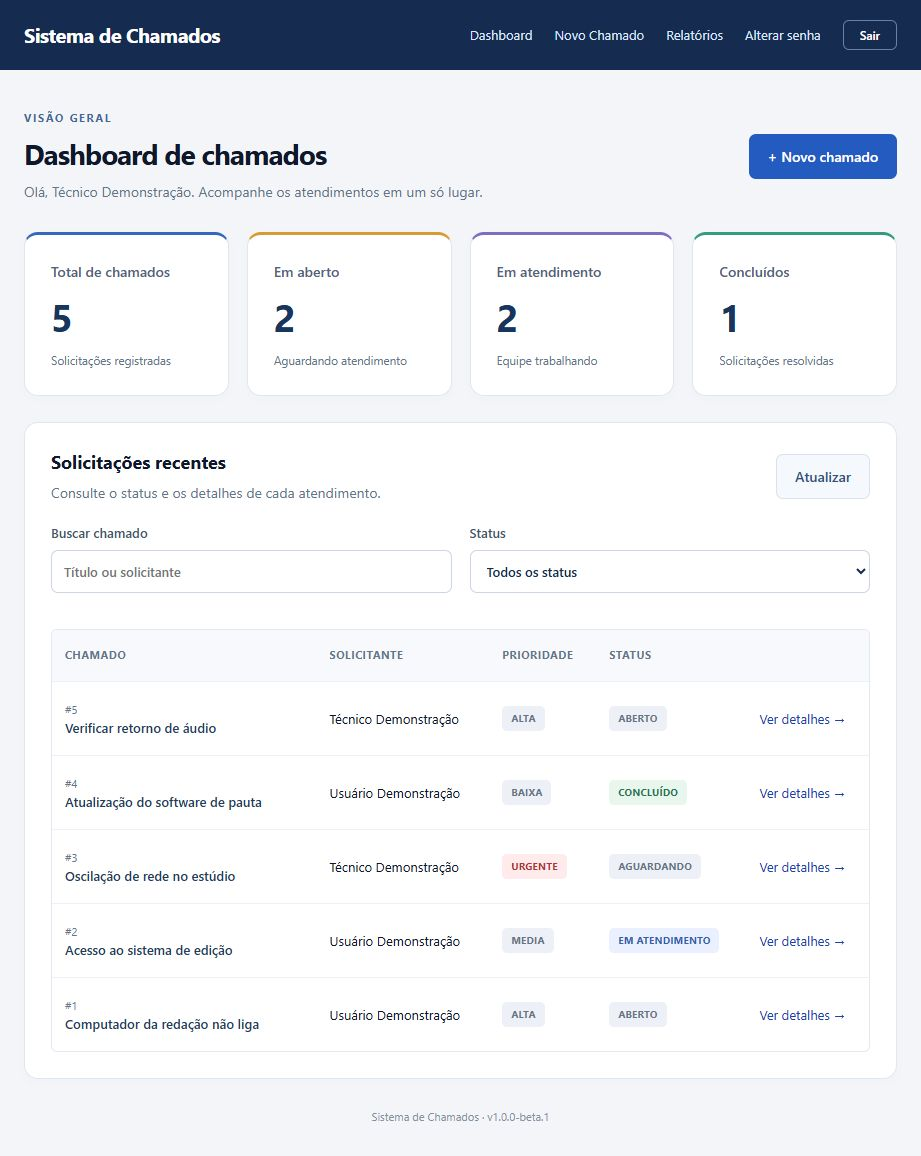
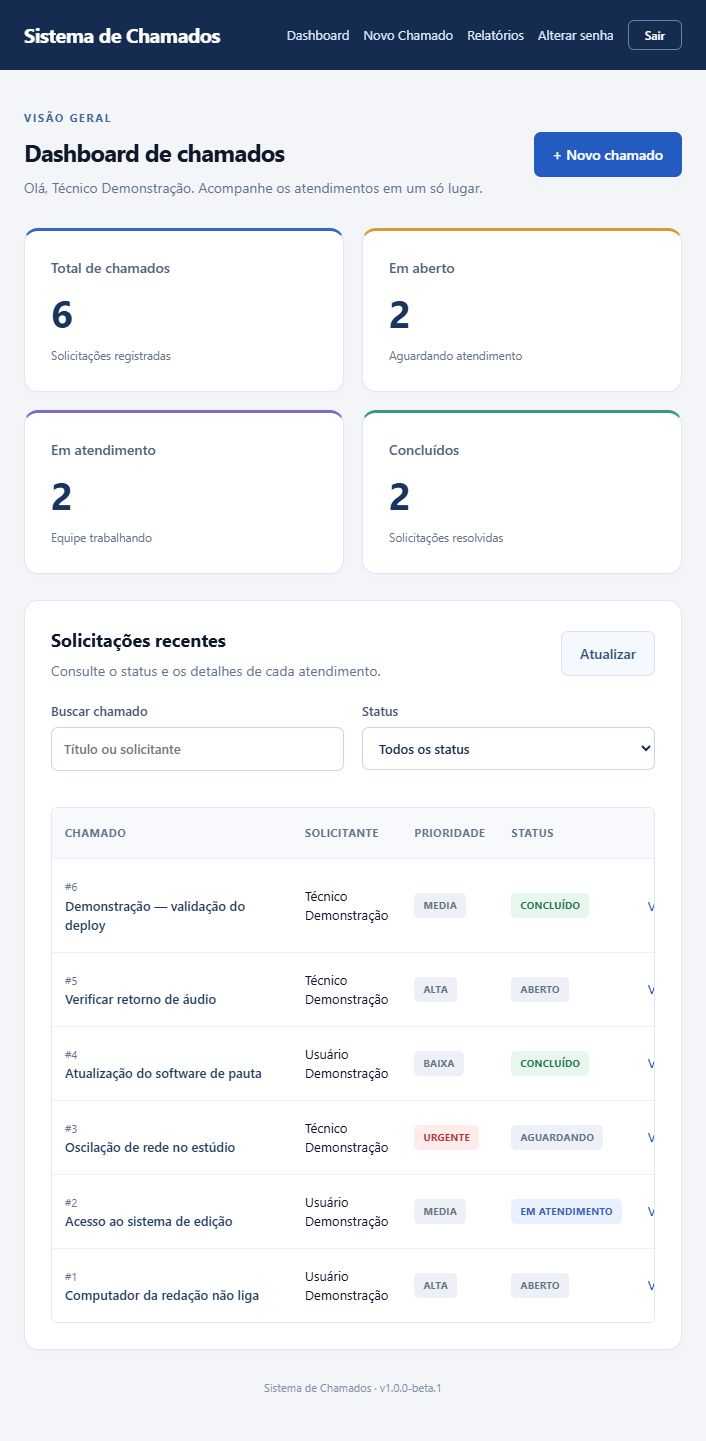
docs: record Render deployment and public access

diff --git a/README.md b/README.md
@@ -2,19 +2,19 @@
 
 Aplicação de controle de chamados técnicos, inspirada no fluxo de um helpdesk corporativo. Permite cadastrar usuários, entrar no sistema, abrir solicitações e acompanhar o atendimento até a conclusão.
 
-**Versão:** `1.0.0-beta.1` · **Status:** validada localmente; deploy público pendente.
+**Versão:** `1.0.0-beta.1` · **Status:** publicada no Render, com PostgreSQL persistente no Neon.
 
 ## Links da entrega
 
-- **Repositório configurado neste projeto:** [FelipeSeiji/Sistema-de-Chamados](https://github.com/FelipeSeiji/Sistema-de-Chamados).
-- **Aplicação publicada:** pendente. A publicação no Railway exige uma conta com plano ativo. Ainda não existe uma URL pública desta versão.
+- **Repositório individual:** [FelipeSeiji/Sistema-de-Chamados](https://github.com/FelipeSeiji/Sistema-de-Chamados).
+- **Aplicação publicada:** [Sistema de Chamados no Render](https://sistema-de-chamados-pw2c.onrender.com).
 - **Código da atividade:** o ZIP deve ser gerado com `scripts/package-source.ps1`, que inclui os arquivos de código e o print deste README.
 
-Antes de entregar, publique esta versão em um repositório individual da sua conta e ajuste o link acima se necessário. As alterações preparadas localmente precisam ser enviadas ao GitHub para que o avaliador tenha acesso a elas.
+O repositório está privado. Antes de entregar o link, conceda acesso ao avaliador ou altere a visibilidade do repositório. O acesso à aplicação publicada é público e permite login com as credenciais abaixo ou cadastro de uma nova conta.
 
 ## Dashboard
 
-Print real da aplicação em execução local, autenticada como técnico, usando dados fictícios. A tela é implementada em `sistema_chamado/frontend/src/app/pages/dashboard/`; a imagem também acompanha o ZIP do código.
+Print real da aplicação publicada no Render, autenticada como técnico, usando dados fictícios. A tela é implementada em `sistema_chamado/frontend/src/app/pages/dashboard/`; a imagem também acompanha o ZIP do código.
 
 ![Dashboard da aplicação de controle de chamados](docs/images/dashboard.jpg)
 
@@ -29,9 +29,9 @@ O projeto utiliza o formato `MAJOR.MINOR.PATCH[-PRÉ-LANÇAMENTO]`:
 | PATCH | Correções compatíveis, sem novas funcionalidades | `1.0.0` → `1.0.1` |
 | Pré-lançamento | Identifica uma versão em validação antes da versão estável | `1.0.0-beta.1` → `1.0.0-beta.2` |
 
-Em **`1.0.0-beta.1`**, `1` identifica a primeira linha principal do sistema, os dois zeros indicam sua versão inicial e `beta.1` identifica a primeira versão de avaliação. O sufixo permanece porque o deploy público ainda não foi validado. Backend (`pom.xml`), frontend (`package.json` e lockfile), dashboard e endpoint de saúde usam a mesma versão.
+Em **`1.0.0-beta.1`**, `1` identifica a primeira linha principal do sistema, os dois zeros indicam sua versão inicial e `beta.1` identifica a primeira versão de avaliação acadêmica. Backend (`pom.xml`), frontend (`package.json` e lockfile), dashboard e endpoint de saúde usam a mesma versão.
 
-As próximas versões devem seguir esse formato e receber uma tag Git correspondente, por exemplo `v1.0.0-beta.1`, após o commit de entrega.
+O código desta entrega é identificado pela tag Git `v1.0.0-beta.1`. As próximas versões devem seguir esse formato e receber sua própria tag correspondente ao commit de entrega.
 
 ## Funcionalidades e perfis
 
@@ -114,27 +114,29 @@ npm test -- --watch=false
 npm run build
 ```
 
-Foram aprovados **4 testes de backend** e **2 testes de frontend**, além do build de produção e do empacotamento do JAR. Os testes cobrem o ciclo do chamado, cadastro sem elevação de privilégio, login, troca de senha, sessão, logout, CSRF, acesso aos próprios chamados e atualização assíncrona do dashboard. O fluxo de login e a interface também foram conferidos no navegador local.
+Foram aprovados **4 testes de backend** e **2 testes de frontend**, além do build de produção e do empacotamento do JAR. Os testes cobrem o ciclo do chamado, cadastro sem elevação de privilégio, login, troca de senha, sessão, logout, CSRF, acesso aos próprios chamados e atualização assíncrona do dashboard. A [validação automática no GitHub Actions](https://github.com/FelipeSeiji/Sistema-de-Chamados/actions/runs/44969556203) também passou.
 
-O arquivo `.github/workflows/verify.yml` executa a validação ao enviar código ao GitHub. O Docker Compose teve sua configuração validada; a imagem Docker não foi construída nesta máquina porque o daemon Docker está desligado.
+O arquivo `.github/workflows/verify.yml` executa a validação ao enviar código ao GitHub. A imagem Docker foi construída com sucesso no Render e a aplicação conectou ao PostgreSQL 18 do Neon. No endereço público, foram conferidos login de demonstração, abertura de chamado, início de atendimento, conclusão com solução, cadastro de uma conta comum, login dessa conta, logout e restauração da sessão após atualizar a página. Uma requisição sem sessão para `/api/chamados` retornou HTTP 401.
 
-## Deploy em um projeto novo no Railway
+## Deploy no Render com banco Neon
 
-Siga [o guia de publicação](docs/deploy-railway.md). A configuração inclui Dockerfile com build do frontend e backend, suporte à porta `PORT`, endpoint `/api/health` e conexão com PostgreSQL por variáveis de ambiente.
+Siga [o guia de publicação no Render](docs/deploy-render.md). O arquivo `render.yaml` descreve o serviço gratuito. A configuração inclui Dockerfile com build do frontend e backend, suporte à porta `PORT`, endpoint `/api/health` e conexão com PostgreSQL por variáveis secretas de ambiente.
 
-O deploy permanece pendente por decisão do responsável. Nenhuma aplicação existente foi alterada.
+A aplicação foi publicada em um serviço novo e exclusivo para este sistema. O endpoint [de saúde](https://sistema-de-chamados-pw2c.onrender.com/api/health) retorna `status=UP` e `version=1.0.0-beta.1`. As credenciais do Neon não estão no repositório. O [guia do Railway](docs/deploy-railway.md) permanece apenas como alternativa de configuração, não utilizada nesta publicação.
 
 ## Limites desta versão
 
 - A recuperação de senha por e-mail não está implementada; a tela orienta procurar o administrador.
 - Os dados e contas de demonstração são públicos e fictícios.
-- A versão ainda não foi validada em um ambiente público nem contra um PostgreSQL em execução nesta sessão.
+- O plano gratuito do Render suspende a aplicação após 15 minutos sem tráfego; o primeiro acesso pode levar cerca de um minuto. O Neon possui cotas no plano gratuito.
+- As sessões ficam na memória da aplicação: após uma reinicialização do serviço, é necessário entrar novamente. Os usuários e chamados permanecem no PostgreSQL.
 - O ZIP deve ser atualizado caso o código ou o print sejam alterados.
 
 ## Conferência antes da entrega
 
-- [ ] Enviar esta versão para o repositório individual e conferir a imagem no README do GitHub.
-- [ ] Criar a tag da versão correspondente ao commit enviado.
-- [ ] Publicar em um projeto novo no Railway e preencher a URL pública neste README.
-- [ ] Testar login em janela anônima com as credenciais documentadas e com uma conta recém-cadastrada.
-- [ ] Gerar o ZIP com `scripts/package-source.ps1` e entregar a mesma versão do repositório.
+- [x] Enviar esta versão para o repositório individual com a imagem no README.
+- [x] Criar a tag da versão correspondente ao commit enviado.
+- [x] Publicar em um serviço novo no Render e preencher a URL pública neste README.
+- [x] Testar login público com as credenciais documentadas e com uma conta recém-cadastrada.
+- [x] Gerar o ZIP com `scripts/package-source.ps1`, contendo o mesmo código e print desta versão.
+- [ ] Garantir que o avaliador tenha acesso ao repositório privado antes de entregar o link.

diff --git a/docs/deploy-render.md b/docs/deploy-render.md
@@ -2,6 +2,16 @@
 
 A aplicação é distribuída em um único serviço Docker, contendo o frontend Angular e o backend Spring Boot. O PostgreSQL fica no Neon e mantém os dados quando o serviço do Render reinicia.
 
+## Publicação desta entrega
+
+- Aplicação: [sistema-de-chamados-pw2c.onrender.com](https://sistema-de-chamados-pw2c.onrender.com).
+- Serviço: `sistema-de-chamados`, plano Free, região Virginia (US East).
+- Banco: projeto exclusivo `sistema-de-chamados` no Neon, plano Free, PostgreSQL 18, região AWS US East 2 (Ohio).
+- Versão: `1.0.0-beta.1`.
+- Credencial pública de demonstração: `tecnico@chamados.demo` / `Demo@12345`.
+
+O deploy foi concluído e o fluxo de cadastro, login, abertura, atendimento e conclusão de chamados foi validado no endereço público. O print do README foi capturado nesse ambiente. O repositório é privado e requer liberação de acesso ao avaliador.
+
 ## Serviço da aplicação
 
 Use o repositório individual `FelipeSeiji/Sistema-de-Chamados`, branch `main`, e as configurações:
